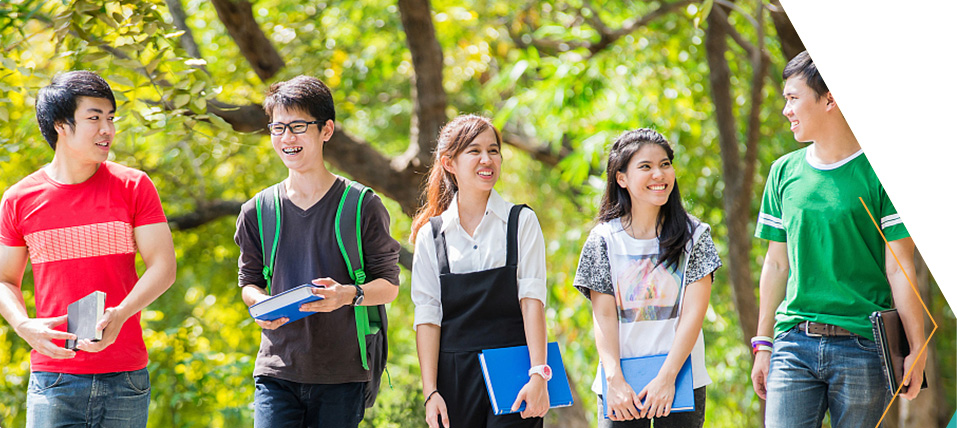
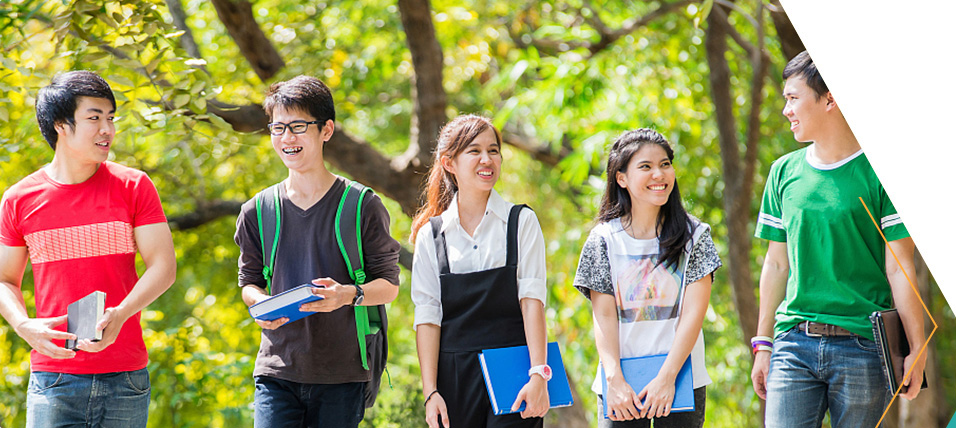
官网studying 模块

diff --git a/Public/Studying/css/index.less b/Public/Studying/css/index.less
@@ -1,16 +1,173 @@
-#studying{
-	.banner{
-		vertical-align: top;
-		font-size: 0;
-		width: 100%;
-		img{
-			display: inline-block;
-		}
-		.banner_left{
-			width: 50%;
-		}
-		.banner_right{
-			width: 50%;
-		}
-	}
+@import url("../../Common/css/function.less");
+#studying {
+    .banner {
+        vertical-align: top;
+        font-size: 0;
+        width: 100%;
+        position: relative;
+        img {
+            display: inline-block;
+        }
+        .banner_left {
+            width: 50%;
+        }
+        .banner_right {
+            width: 50%;
+        }
+        .banner_yello {
+            position: absolute;
+            top: 0;
+            width: 360px;
+            height: 322px;
+            left: 50%;
+            margin-left: -177px;
+        }
+    }
+    .main {
+        box-shadow: 0px 0px 5px 0px #e4e3e3;
+        border-bottom: 1px solid #e3e3e3;
+        border-radius: 5px;
+        margin-top: 40px;
+        margin-bottom: 80px;
+        .titleDv {
+            font-size: 22px;
+            text-align: center;
+            padding: 30px 0;
+            background-color: #ffd900;
+            border-top-left-radius: 5px;
+            border-top-right-radius: 5px;
+            color: #000000;
+        }
+        .s_content {
+            padding: 20px 120px;
+            .notice {
+                font-size: 16px;
+                text-align: center;
+                color: #909090;
+                margin-top: 40px;
+            }
+            .lineDv {
+                margin: 50px auto;
+                .s_title {
+                    font-size: 18px;
+                    color: #000000;
+                    position: relative;
+                    border-bottom: 1px solid #fee157;
+                    height: 39px;
+                    line-height: 39px;
+                    &:before {
+                        content: "";
+                        background-image: url("../img/t_border.png");
+                        width: 29px;
+                        height: 39px;
+                        position: absolute;
+                        display: inline-block;
+                        margin-right: 10px;
+                    }
+                    span {
+                        padding-left: 40px;
+                        color: #000000;
+                        font-weight: 600;
+                    }
+                }
+                .choose {
+                    width: 780px;
+                    margin: 30px auto;
+                    .ss_title {
+                        font-size: 16px;
+                        color: #252525;
+                        width: 65px;
+                        float: left;
+                        height: 40px;
+                        line-height: 40px;
+                        font-weight: 600;
+                    }
+                    .input_form {
+                        width: 450px;
+                        display: inline-block;
+                        float: left;
+                        margin-left: 50px;
+                        height: 40px;
+                        line-height: 40px;
+                        padding-left: 8px;
+                        padding-right: 20px;
+                        font-size: 14px;
+                        background-color: #fff;
+					    border: 1px solid #aaa;
+					    border-radius: 4px;
+                        outline: none;
+                        &.w_310{
+                        	width: 310px;
+                        }
+                    }
+                    .code_btn{
+                    	width: 120px;
+                        height: 40px;
+                        line-height: 40px;
+                        background-color: #ffd900;
+                        font-size: 14px;
+                        outline: none;
+                        border:1px solid #cccccc;
+                        cursor: pointer;
+    					margin-left: 20px;
+    					border-radius: 4px;
+                    }
+                    .select2 {
+                        width: 450px;
+                        display: inline-block;
+                        float: left;
+                        margin-left: 50px;
+                        span {
+                            outline: none;
+                            height: 40px;
+                            line-height: 40px;
+                        }
+                        .select2-selection__rendered {
+                            font-size: 14px;
+                        }
+                    }
+                    .list {
+                        font-size: 0;
+                        width: 663px;
+                        display: inline-block;
+                        float: right;
+                        .item {
+                            font-size: 16px;
+                            color: #252525;
+                            display: inline-block;
+                            border-radius: 30px;
+                            border: 1px solid #f5d657;
+                            padding: 10px 0;
+                            width: 115px;
+                            margin-right: 20px;
+                            text-align: center;
+                            &:last-child {
+                                margin-right: 0;
+                            }
+                            &:hover {
+                                background-color: #ffd900;
+                                cursor: pointer;
+                                box-shadow: 0px 0px 1px 1px #ccc;
+                            }
+                        }
+                    }
+                }
+            }
+            .xy_submit{
+        	    width: 320px;
+			    height: 50px;
+			    line-height: 50px;
+			    background-color: #ffd900;
+			    font-size: 16px;
+			    outline: none;
+			    border: none;
+			    cursor: pointer;
+			    margin-left: 20px;
+			    border-radius: 4px;
+			    display: block;
+			    margin: 0 auto;
+			    margin-bottom: 90px;
+            }
+        }
+    }
 }

diff --git a/Template/Studying/View_Index.html b/Template/Studying/View_Index.html
@@ -23,15 +23,107 @@
     <include file="./Template/Open/View_header.html"/>
     <div id="studying" class="marginTop">
         <div class="banner">
-            <img src="../../Public/Studying/img/banner_left.jpg" alt="" class="banner_left">
-            <img src="../../Public/Studying/img/banner_right.jpg" alt="" class="banner_right">
+            <img src="../../Public/Studying/img/banner_left.jpg" alt="" class="banner_left" data-sr="enter left hustle 150px over 1s">
+            <img src="../../Public/Studying/img/banner_right.jpg" alt="" class="banner_right" data-sr="enter right hustle 150px over 1.2s">
+            <img src="../../Public/Studying/img/banner_yello.png" alt="" class="banner_yello" data-sr="enter top hustle 150px over 1.4s">
+        </div>
+        <div class="main container">
+            <div class="titleDv">
+                测一测你能否考入日本名校？
+            </div>
+            <div class="s_content">
+                <h3 class="notice">请完善你的个人信息及教育背景，这些信息我们将严格保密！</h3>
+                <div class="lineDv">
+                    <div class="s_title">
+                        <span>学习信息</span>
+                    </div>
+                    <div class="choose clearfix">
+                        <span class="ss_title">日语能力</span>
+                        <ul class="list">
+                            <li class="item">N1</li>
+                            <li class="item">N2</li>
+                            <li class="item">N3</li>
+                            <li class="item">N4</li>
+                            <li class="item">N5及以下</li>
+                        </ul>
+                    </div>
+                    <div class="choose clearfix">
+                        <span class="ss_title">英语能力</span>
+                        <ul class="list">
+                            <li class="item">100分以上</li>
+                            <li class="item">80-90</li>
+                            <li class="item">70-80</li>
+                            <li class="item">60-70</li>
+                            <li class="item">60分以下</li>
+                        </ul>
+                    </div>
+                    <div class="choose clearfix">
+                        <span class="ss_title">当前学校</span>
+                        <ul class="list">
+                            <li class="item">985</li>
+                            <li class="item">211</li>
+                            <li class="item">一本</li>
+                            <li class="item">二本</li>
+                            <li class="item">专科</li>
+                        </ul>
+                    </div>
+                    <div class="choose clearfix">
+                        <span class="ss_title">GPA</span>
+                        <ul class="list">
+                            <li class="item">3.5分以上</li>
+                            <li class="item">3-3.5</li>
+                            <li class="item">2-3</li>
+                            <li class="item">2分以下</li>
+                        </ul>
+                    </div>
+                </div>
+                <div class="lineDv">
+                    <div class="s_title">
+                        <span>目标信息</span>
+                    </div>
+                    <div class="choose clearfix">
+                        <span class="ss_title">当前专业</span>
+                        <select name="" id="" class="select2">
+                            <option value="">文科</option>
+                            <option value="">理科</option>
+                        </select>
+                    </div>
+                    <div class="choose clearfix">
+                        <span class="ss_title">目标专业</span>
+                        <select name="" id="" class="select2">
+                            <option value="">文科</option>
+                            <option value="">理科</option>
+                        </select>
+                    </div>
+                </div>
+                <div class="lineDv">
+                    <div class="s_title">
+                        <span>基础信息</span>
+                    </div>
+                    <div class="choose clearfix">
+                        <span class="ss_title">姓名</span>
+                        <input type="text" class="input_form">
+                    </div>
+                    <div class="choose clearfix">
+                        <span class="ss_title">手机</span>
+                        <input type="text" class="input_form w_310">
+                        <button class="code_btn">获取验证码</button>
+                    </div>
+                    <div class="choose clearfix">
+                        <span class="ss_title">验证码</span>
+                        <input type="text" class="input_form">
+                    </div>
+                </div>
+                <button class="xy_submit">确定</button>
+            </div>
         </div>
     </div>
     <include file="./Template/Common/View_loading.html"/>
     <include file="./Template/Common/View_footer.html"/>
 
     <script src="https://cdn.bootcss.com/vue/2.5.13/vue.min.js"></script>
-    <script src="__PUBLIC__/studying/js/index.js"></script>
+    <script src="__PUBLIC__/Mall/js/scrollReveal.min.js"></script>
+    <script src="../../Public/Studying/js/index.js"></script>
 </body>
 
 </html>

diff --git a/Public/Studying/css/index.css b/Public/Studying/css/index.css
@@ -1,1 +1,1 @@
-#studying .banner{vertical-align:top;font-size:0;width:100%}#studying .banner img{display:inline-block}#studying .banner .banner_left{width:50%}#studying .banner .banner_right{width:50%}
+#studying .banner{vertical-align:top;font-size:0;width:100%;position:relative}#studying .banner img{display:inline-block}#studying .banner .banner_left{width:50%}#studying .banner .banner_right{width:50%}#studying .banner .banner_yello{position:absolute;top:0;width:360px;height:322px;left:50%;margin-left:-177px}#studying .main{box-shadow:0 0 5px 0 #e4e3e3;border-bottom:1px solid #e3e3e3;border-radius:5px;margin-top:40px;margin-bottom:80px}#studying .main .titleDv{font-size:22px;text-align:center;padding:30px 0;background-color:#ffd900;border-top-left-radius:5px;border-top-right-radius:5px;color:#000}#studying .main .s_content{padding:20px 120px}#studying .main .s_content .notice{font-size:16px;text-align:center;color:#909090;margin-top:40px}#studying .main .s_content .lineDv{margin:50px auto}#studying .main .s_content .lineDv .s_title{font-size:18px;color:#000;position:relative;border-bottom:1px solid #fee157;height:39px;line-height:39px}#studying .main .s_content .lineDv .s_title:before{content:"";background-image:url("../img/t_border.png");width:29px;height:39px;position:absolute;display:inline-block;margin-right:10px}#studying .main .s_content .lineDv .s_title span{padding-left:40px;color:#000;font-weight:600}#studying .main .s_content .lineDv .choose{width:780px;margin:30px auto}#studying .main .s_content .lineDv .choose .ss_title{font-size:16px;color:#252525;width:65px;float:left;height:40px;line-height:40px;font-weight:600}#studying .main .s_content .lineDv .choose .input_form{width:450px;display:inline-block;float:left;margin-left:50px;height:40px;line-height:40px;padding-left:8px;padding-right:20px;font-size:14px;background-color:#fff;border:1px solid #aaa;border-radius:4px;outline:none}#studying .main .s_content .lineDv .choose .input_form.w_310{width:310px}#studying .main .s_content .lineDv .choose .code_btn{width:120px;height:40px;line-height:40px;background-color:#ffd900;font-size:14px;outline:none;border:1px solid #ccc;cursor:pointer;margin-left:20px;border-radius:4px}#studying .main .s_content .lineDv .choose .select2{width:450px;display:inline-block;float:left;margin-left:50px}#studying .main .s_content .lineDv .choose .select2 span{outline:none;height:40px;line-height:40px}#studying .main .s_content .lineDv .choose .select2 .select2-selection__rendered{font-size:14px}#studying .main .s_content .lineDv .choose .list{font-size:0;width:663px;display:inline-block;float:right}#studying .main .s_content .lineDv .choose .list .item{font-size:16px;color:#252525;display:inline-block;border-radius:30px;border:1px solid #f5d657;padding:10px 0;width:115px;margin-right:20px;text-align:center}#studying .main .s_content .lineDv .choose .list .item:last-child{margin-right:0}#studying .main .s_content .lineDv .choose .list .item:hover{background-color:#ffd900;cursor:pointer;box-shadow:0 0 1px 1px #ccc}#studying .main .s_content .xy_submit{width:320px;height:50px;line-height:50px;background-color:#ffd900;font-size:16px;outline:none;border:none;cursor:pointer;margin-left:20px;border-radius:4px;display:block;margin:0 auto;margin-bottom:90px}

diff --git a/Public/Studying/js/index.js b/Public/Studying/js/index.js
@@ -1,0 +1,11 @@
+$(function(){
+	$(".select2").select2({
+		width:"450px"
+	});
+    var config = {
+        reset: true,
+        delay: 'always',
+        mobile: true,
+    }
+    window.sr = new scrollReveal(config);
+})
